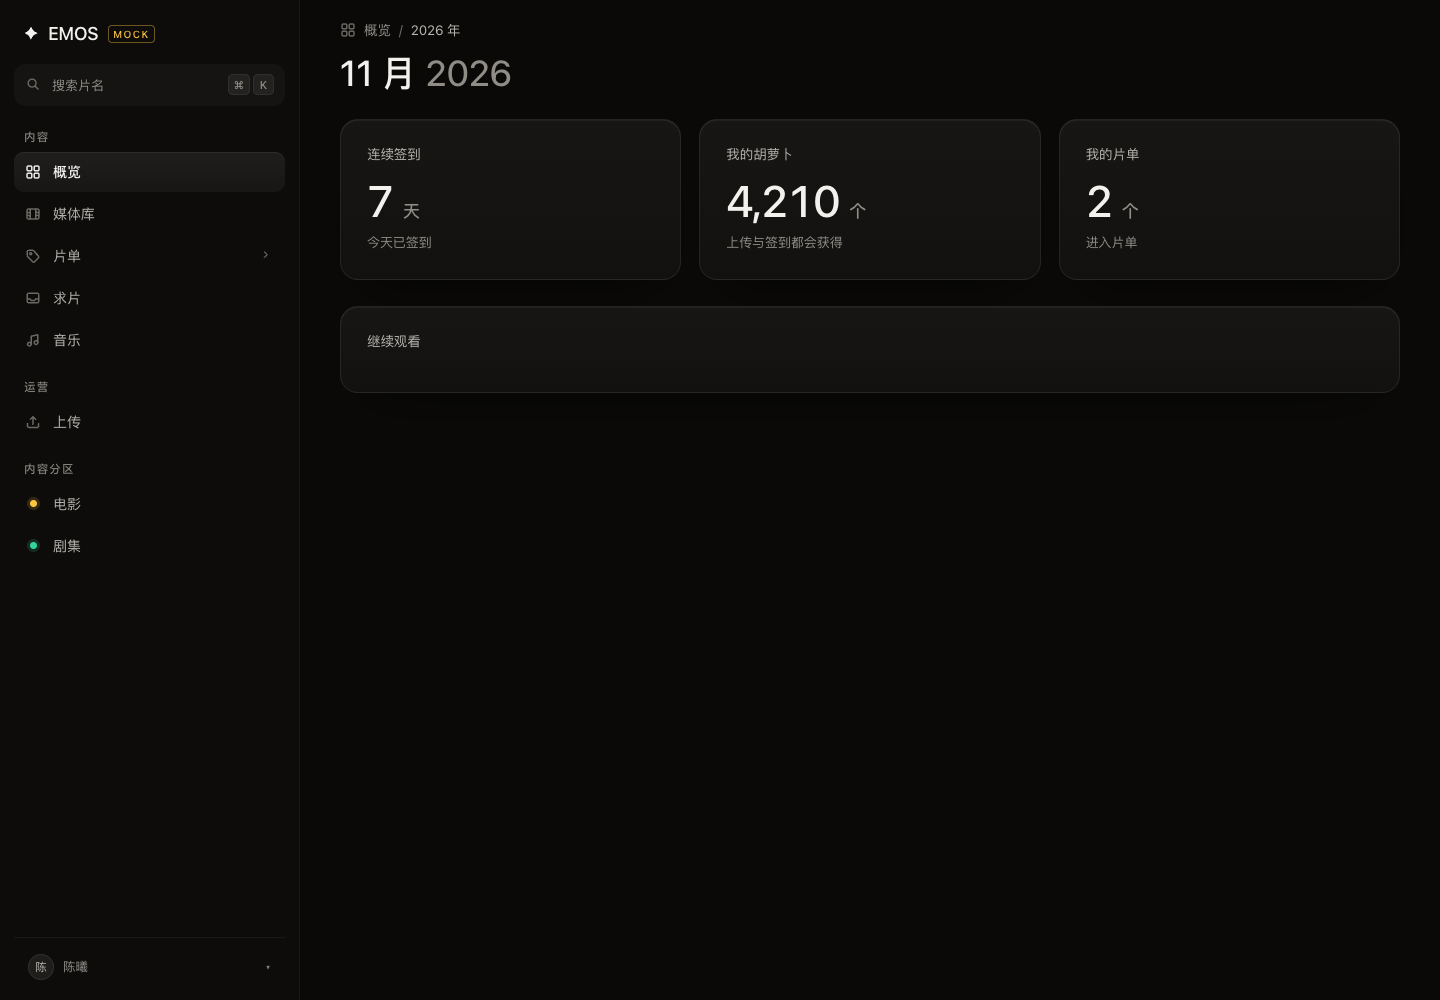
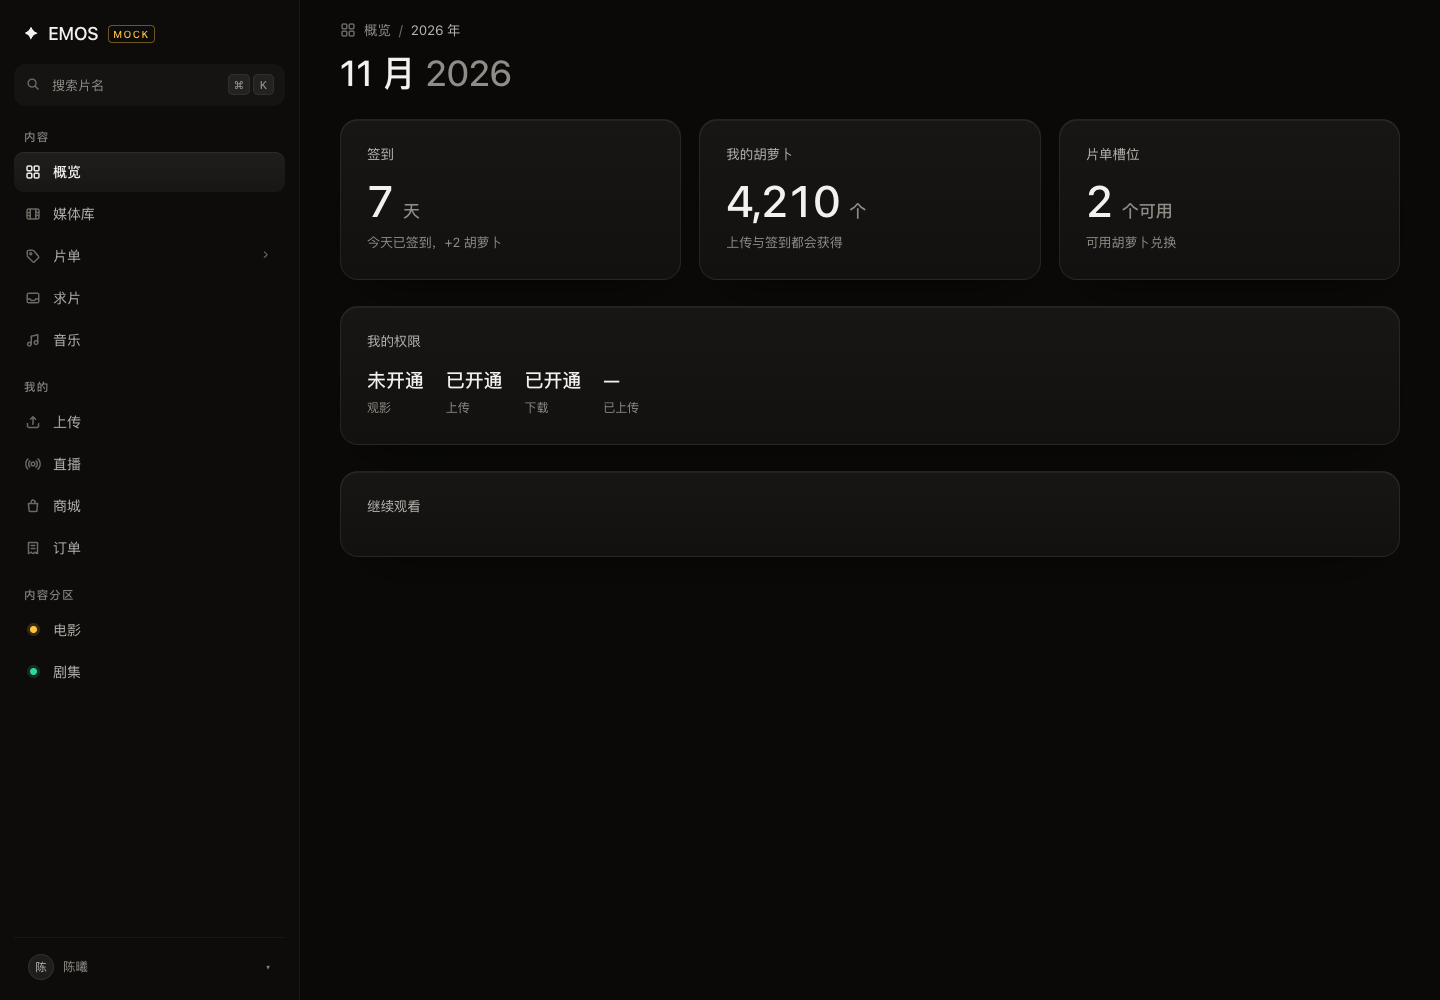
fix(perm): 按 API 真实能力模型重构权限，而不是 admin/user 二元
依据 /api/user 文档与实际响应：
- is_viewing 是「观影权限」，不是「正在观看」
- is_can_upload / is_can_down 可自助开通（同意上传/下载协议）
- slot_remaining 片单卡槽可用胡萝卜兑换（POST /api/watch/slot）
- invite_remaining 名额，admin 为无限
- sign 当天未签到返回 null（原实现按日期字符串比较，判断是错的）

改动：
- useCapabilities() 统一读取能力
- 侧栏按能力显示：上传需 canUpload、商城/订单需商户身份、支付需 admin
- 账号页新增权限区块与开通/兑换入口
- 普通用户概览改为 签到 / 胡萝卜 / 片单槽位 + 我的权限 + 继续观看

diff --git a/src/views/OverviewView.tsx b/src/views/OverviewView.tsx
@@ -2,20 +2,19 @@ import { Link } from '@tanstack/react-router'
 import { PageHeader } from '@/components/PageHeader'
 import { StatCard } from '@/components/StatCard'
 import { EmptyBlock, ErrorBlock } from '@/components/StateBlock'
-import { useCarrot, useContinueWatching, useIsAdmin, useMyWatchlists, usePlayingNow, useRankUpload, useSeekOpen, useSession, useTodos, useZoneCounts } from '@/api/queries'
+import { useCapabilities, useCarrot, useContinueWatching, useIsAdmin, usePlayingNow, useRankUpload, useSeekOpen, useSession, useTodos, useZoneCounts } from '@/api/queries'
 import { formatSize, formatThousand, VIDEO_TYPE_LABEL } from '@/lib/format'
 
 function UserOverview() {
-  const session = useSession()
+  const caps = useCapabilities()
   const carrot = useCarrot()
-  const mine = useMyWatchlists()
   const watching = useContinueWatching()
-  const sign = session.data?.sign
 
   const now = new Date()
   const monthName = `${now.getMonth() + 1} 月`
   const year = String(now.getFullYear())
-  const signedToday = sign?.sign_at ? sign.sign_at.slice(0, 10) === now.toISOString().slice(0, 10) : false
+  const signedToday = caps.signedToday
+  const sign = useSession().data?.sign
 
   return (
     <>
@@ -23,13 +22,13 @@ function UserOverview() {
 
       <section className="cards">
         <article className="card">
-          <p className="stat__label">连续签到</p>
+          <p className="stat__label">签到</p>
           <p className="stat__value">
-            {sign ? sign.continuous_days : '—'}
-            <small>天</small>
+            {signedToday ? (sign?.continuous_days ?? 0) : '—'}
+            <small>{signedToday ? '天' : '今天未签'}</small>
           </p>
           <p className="stat__delta stat__delta--quiet" style={{ marginTop: 10 }}>
-            {signedToday ? '今天已签到' : '今天还没签到'}
+            {signedToday ? `今天已签到，+${sign?.earn_point ?? 0} 胡萝卜` : '签到可得胡萝卜'}
           </p>
         </article>
         <article className="card">
@@ -43,15 +42,42 @@ function UserOverview() {
           </p>
         </article>
         <Link className="card todo" to="/watchlists" search={{ page: 1, page_size: 20, scope: 'self', type: 'video' }}>
-          <p className="stat__label">我的片单</p>
+          <p className="stat__label">片单槽位</p>
           <p className="stat__value">
-            {mine.data === undefined ? '—' : formatThousand(mine.data)}
-            <small>个</small>
+            {caps.slotRemaining}
+            <small>个可用</small>
           </p>
           <p className="stat__delta stat__delta--quiet" style={{ marginTop: 10 }}>
-            进入片单
+            可用胡萝卜兑换
           </p>
         </Link>
+      </section>
+
+      <section className="cards cards--wide">
+        <article className="card">
+          <p className="stat__label">我的权限</p>
+          <div className="detail-stats" style={{ marginTop: 12 }}>
+            {[
+              { label: '观影', ok: caps.canView },
+              { label: '上传', ok: caps.canUpload },
+              { label: '下载', ok: caps.canDown },
+            ].map((item) => (
+              <div key={item.label} className="detail-stat">
+                <b>{item.ok ? '已开通' : '未开通'}</b>
+                <span>{item.label}</span>
+              </div>
+            ))}
+            <div className="detail-stat">
+              <b>{caps.sizeUpload > 0 ? formatSize(caps.sizeUpload) : '0 B'}</b>
+              <span>已上传</span>
+            </div>
+          </div>
+          {!caps.canUpload || !caps.canDown ? (
+            <p className="state__hint" style={{ textAlign: 'left', marginTop: 14 }}>
+              上传与下载需要在「账号 → 权限」里同意对应协议后开启。
+            </p>
+          ) : null}
+        </article>
       </section>
 
       <section className="cards cards--wide">

diff --git a/src/views/AccountView.tsx b/src/views/AccountView.tsx
@@ -5,6 +5,7 @@ import { Modal } from '@/components/Modal'
 import { IconChevron, IconLeft, IconRight } from '@/components/icons'
 import {
   useAccountMutations,
+  useCapabilities,
   useBanList,
   useCarrot,
   useCarrotHistory,
@@ -14,6 +15,7 @@ import {
   useSession,
 } from '@/api/queries'
 import { toast } from '@/ui/toast'
+import { watchApi } from '@/api/endpoints'
 import { confirmDialog } from '@/ui/confirm'
 import { formatDateTime, formatRelative, formatThousand } from '@/lib/format'
 
@@ -32,6 +34,7 @@ export function AccountView({ tab, onTab }: { tab: Tab; onTab: (tab: Tab) => voi
   const info = useInviteInfo()
   const bans = useBanList()
   const actions = useAccountMutations()
+  const caps = useCapabilities()
 
   const [pseudonym, setPseudonym] = useState('')
   const [password, setPassword] = useState<{ password: number; second: number } | null>(null)
@@ -163,7 +166,58 @@ export function AccountView({ tab, onTab }: { tab: Tab; onTab: (tab: Tab) => voi
                   显示空媒体库
                 </label>
 
+                <div className="detail-stats" style={{ marginTop: 4 }}>
+                  <div className="detail-stat">
+                    <b>{caps.canView ? '已开通' : '未开通'}</b>
+                    <span>观影权限</span>
+                  </div>
+                  <div className="detail-stat">
+                    <b>{caps.canUpload ? '已开通' : '未开通'}</b>
+                    <span>上传权限</span>
+                  </div>
+                  <div className="detail-stat">
+                    <b>{caps.canDown ? '已开通' : '未开通'}</b>
+                    <span>下载权限</span>
+                  </div>
+                  <div className="detail-stat">
+                    <b>{caps.slotRemaining}</b>
+                    <span>片单槽位</span>
+                  </div>
+                </div>
+
                 <div style={{ display: 'flex', gap: 8, flexWrap: 'wrap' }}>
+                  {!caps.canUpload ? (
+                    <button
+                      className="btn btn--ghost"
+                      onClick={() =>
+                        actions.agreeUpload.mutate(undefined, { onSuccess: () => toast('已开启上传权限', 'success') })
+                      }
+                    >
+                      同意上传协议并开通
+                    </button>
+                  ) : null}
+                  {!caps.canDown ? (
+                    <button
+                      className="btn btn--ghost"
+                      onClick={() => actions.agreeDown.mutate(undefined, { onSuccess: () => toast('已开启下载权限', 'success') })}
+                    >
+                      同意下载协议并开通
+                    </button>
+                  ) : null}
+                  <button
+                    className="btn btn--ghost"
+                    onClick={() =>
+                      watchApi.slot().then(
+                        (res) => {
+                          toast(`已兑换，剩余槽位 ${res.slot_remaining}`, 'success')
+                          void session.refetch()
+                        },
+                        () => toast('兑换失败，胡萝卜可能不足', 'error'),
+                      )
+                    }
+                  >
+                    用胡萝卜兑换片单槽位
+                  </button>
                   <button
                     className="btn btn--ghost"
                     onClick={() =>

diff --git a/src/components/Sidebar.tsx b/src/components/Sidebar.tsx
@@ -2,6 +2,7 @@ import { useEffect, useState } from 'react'
 import { Link, useNavigate, useRouterState } from '@tanstack/react-router'
 import { forgetAccount, listAccounts, rememberAccount, switchAccount, type Account } from '@/lib/accounts'
 import type { UserInfo } from '@/api/types'
+import { useCapabilities } from '@/api/queries'
 import { USE_MOCK } from '@/api/client'
 import {
   IconBag,
@@ -21,7 +22,7 @@ import {
   IconUser,
 } from './icons'
 
-type NavItem = { to: string; label: string; icon: React.ComponentType<{ size?: number }>; tail?: string; chev?: boolean; admin?: boolean }
+type NavItem = { to: string; label: string; icon: React.ComponentType<{ size?: number }>; tail?: string; chev?: boolean; need?: 'merchant' | 'admin' | 'upload' }
 
 const GROUPS: Array<{ label: string; items: NavItem[] }> = [
   {
@@ -37,17 +38,17 @@ const GROUPS: Array<{ label: string; items: NavItem[] }> = [
   {
     label: '运营',
     items: [
-      { to: '/upload', label: '上传', icon: IconUpload },
-      { to: '/live', label: '直播', icon: IconLive, admin: true },
-      { to: '/shop', label: '商城', icon: IconBag, admin: true },
-      { to: '/orders', label: '订单', icon: IconReceipt, admin: true },
+      { to: '/upload', label: '上传', icon: IconUpload, need: 'upload' },
+      { to: '/live', label: '直播', icon: IconLive },
+      { to: '/shop', label: '商城', icon: IconBag, need: 'merchant' },
+      { to: '/orders', label: '订单', icon: IconReceipt, need: 'merchant' },
     ],
   },
   {
     label: '系统',
     items: [
-      { to: '/lines', label: '线路', icon: IconRoute, admin: true },
-      { to: '/pay', label: '支付', icon: IconWallet, admin: true },
+      { to: '/lines', label: '线路', icon: IconRoute },
+      { to: '/pay', label: '支付', icon: IconWallet, need: 'admin' },
       { to: '/account', label: '账号', icon: IconUser, chev: true },
     ],
   },
@@ -59,7 +60,15 @@ const ZONES = [
 ]
 
 export function Sidebar({ user }: { user?: UserInfo }) {
-  const isAdmin = Boolean(user?.roles?.includes('admin'))
+  const caps = useCapabilities()
+  const isAdmin = caps.isAdmin
+  const allowed = (need?: NavItem['need']) => {
+    if (!need) return true
+    if (need === 'admin') return caps.isAdmin
+    if (need === 'merchant') return caps.isMerchant
+    if (need === 'upload') return caps.canUpload || caps.isAdmin
+    return true
+  }
   const pathname = useRouterState({ select: (s) => s.location.pathname })
   const initial = (user?.pseudonym || user?.username || '?').slice(0, 1)
   const navigate = useNavigate()
@@ -108,7 +117,7 @@ export function Sidebar({ user }: { user?: UserInfo }) {
             {!isAdmin ? (group.label === '系统' ? '个人' : group.label === '运营' ? '我的' : group.label) : group.label}
           </p>
           <nav className="rail__nav">
-            {group.items.filter((item) => !item.admin || isAdmin).map((item) => {
+            {group.items.filter((item) => allowed(item.need)).map((item) => {
               const Icon = item.icon
               const active = item.to === '/' ? pathname === '/' : pathname.startsWith(item.to)
               return (

diff --git a/src/api/queries.ts b/src/api/queries.ts
@@ -41,9 +41,43 @@ export function useSession() {
   })
 }
 
-export function useIsAdmin(): boolean {
+export interface Capabilities {
+  isAdmin: boolean
+  canView: boolean
+  canUpload: boolean
+  canDown: boolean
+  slotRemaining: number
+  inviteRemaining: number | null
+  sizeUpload: number
+  signedToday: boolean
+  isMerchant: boolean
+}
+
+export function useCapabilities(): Capabilities {
   const { data } = useSession()
-  return Boolean(data?.roles?.includes('admin'))
+  const seller = useQuery({
+    queryKey: ['shop', 'seller'] as const,
+    queryFn: () => shopApi.sellerBase(),
+    staleTime: 5 * 60_000,
+    retry: false,
+  })
+
+  const isAdmin = Boolean(data?.roles?.includes('admin'))
+  return {
+    isAdmin,
+    canView: Boolean(data?.is_viewing),
+    canUpload: Boolean(data?.is_can_upload),
+    canDown: Boolean(data?.is_can_down),
+    slotRemaining: data?.slot_remaining ?? 0,
+    inviteRemaining: isAdmin ? null : (data?.invite_remaining ?? 0),
+    sizeUpload: data?.size_upload ?? 0,
+    signedToday: Boolean(data?.sign),
+    isMerchant: Boolean(seller.data?.is_self) || isAdmin,
+  }
+}
+
+export function useIsAdmin(): boolean {
+  return useCapabilities().isAdmin
 }
 
 export function useMyWatchlists() {
@@ -281,6 +315,8 @@ export function useAccountMutations() {
   return {
     setPseudonym: useMutation({ mutationFn: (name: string) => userApi.pseudonym(name), onSuccess: invalidate }),
     setShowEmpty: useMutation({ mutationFn: (value: boolean) => userApi.showEmpty(value), onSuccess: invalidate }),
+    agreeUpload: useMutation({ mutationFn: () => userApi.agreeUpload(), onSuccess: invalidate }),
+    agreeDown: useMutation({ mutationFn: () => userApi.agreeDown(), onSuccess: invalidate }),
     temporaryPassword: useMutation({ mutationFn: () => userApi.passwordTemporary() }),
     resetPassword: useMutation({ mutationFn: (password: string) => userApi.passwordReset(password), onSuccess: invalidate }),
     sign: useMutation({ mutationFn: () => userApi.sign(), onSuccess: invalidate }),

diff --git a/src/api/endpoints.ts b/src/api/endpoints.ts
@@ -18,6 +18,7 @@ export const userApi = {
   showEmpty: (isShowEmpty: boolean) => request<{ is_show_empty: boolean }>('/api/user/showEmpty', { method: 'PUT', body: { is_show_empty: isShowEmpty } }),
   pseudonym: (name: string) => request<{ pseudonym: string }>('/api/user/pseudonym', { method: 'PUT', query: { name } }),
   agreeUpload: () => request<unknown>('/api/user/agreeUploadAgreement', { method: 'PUT' }),
+  agreeDown: () => request<unknown>('/api/user/agreeDownAgreement', { method: 'PUT' }),
   sign: (content?: string) => request<{ sign_index: number; earn_point: number; continuous_days: number }>('/api/user/sign', { method: 'PUT', query: { content } }),
   passwordTemporary: () => request<{ password: number; second: number }>('/api/user/passwordTemporary'),
   passwordReset: (password: string) => request<unknown>('/api/user/passwordReset', { method: 'PUT', query: { password } }),
